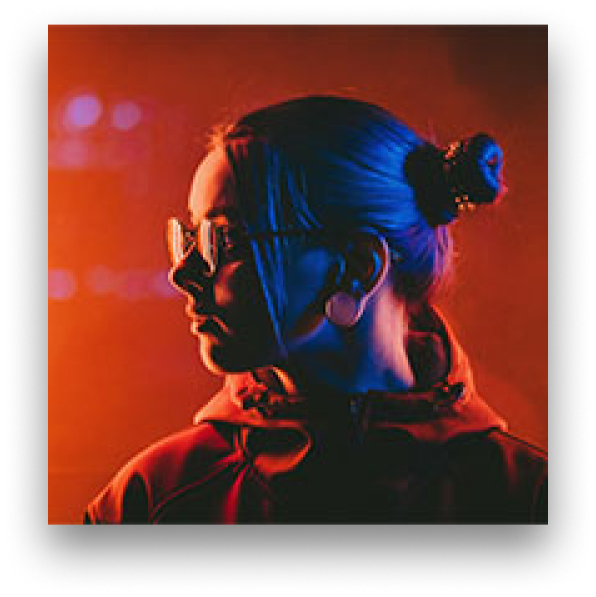
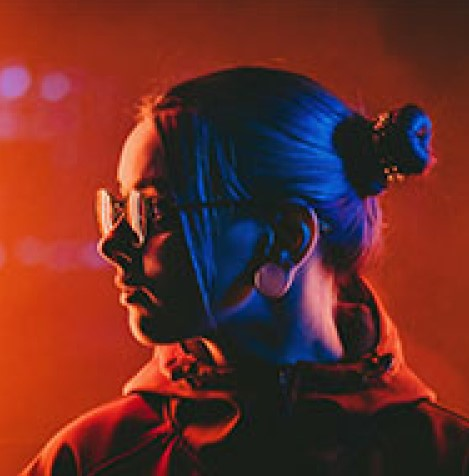
changes in css

diff --git a/Design1/css/style.css b/Design1/css/style.css
@@ -12,13 +12,14 @@ body{
 
 .nav-menu
 {
-    display:flex;
+display:flex;
 position: absolute;
-width: 1440px;
+width: 1280px;
 height: 99px;
 left: 0px;
 top: -2px;
 background-color:azure;
+text-align:center;
 }
 
 nav{
@@ -33,11 +34,11 @@ float:right;
 }
 
 .content-1{
-    position: absolute;
+position: absolute;
 width: 425px;
 height: 75px;
-left: 100px;
-top: 311.67px;
+left: 120px;
+top: 150.67px;
 
 font-family: 'Roboto';
 font-style: normal;
@@ -52,7 +53,7 @@ position: absolute;
 width: 418px;
 height: 84px;
 left: 120px;
-top: 410.67px;
+top: 250px;
 
 font-family: 'Roboto';
 font-style: normal;
@@ -70,7 +71,7 @@ line-height: 42px;
     width:auto;
     height: auto;
     left: 120px;
-    top: 526.67px;
+    top: 370.67px;
 }
 
 .insta{
@@ -78,7 +79,7 @@ position: absolute;
 width: 55px;
 height: 55px;
 left: 120px;
-top: 600px;
+top: 500px;
 }
 
 .dribble{
@@ -86,7 +87,7 @@ position: absolute;
 width: 55px;
 height: 55px;
 left: 250px;
-top: 600px;
+top: 500px;
 }
 
 .behance{
@@ -94,15 +95,15 @@ position: absolute;
 width: 55px;
 height: 55px;
 left: 350px;
-top: 600px;
+top: 500px;
 }
 
 .girl{
-    position: absolute;
-width: 500px;
-height: 500px;
-left: 816px;
-top: 199.67px;
+position: absolute;
+width: 400px;
+height: 400px;
+left: 716px;
+top: 179.67px;
 
 filter: drop-shadow(0px 24px 48px rgba(0, 0, 0, 0.5));
 }
